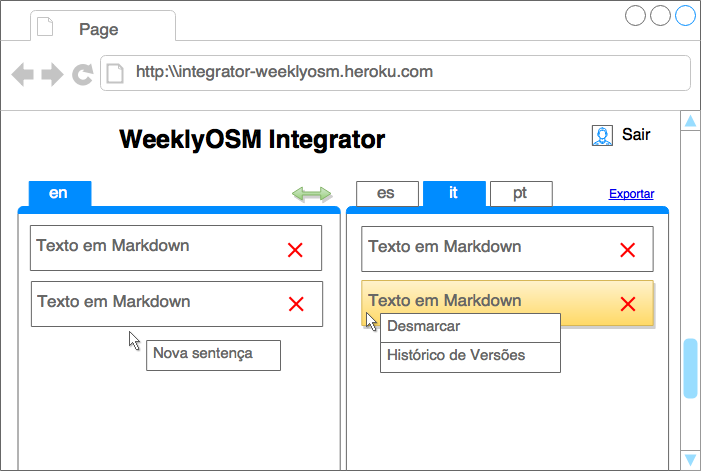
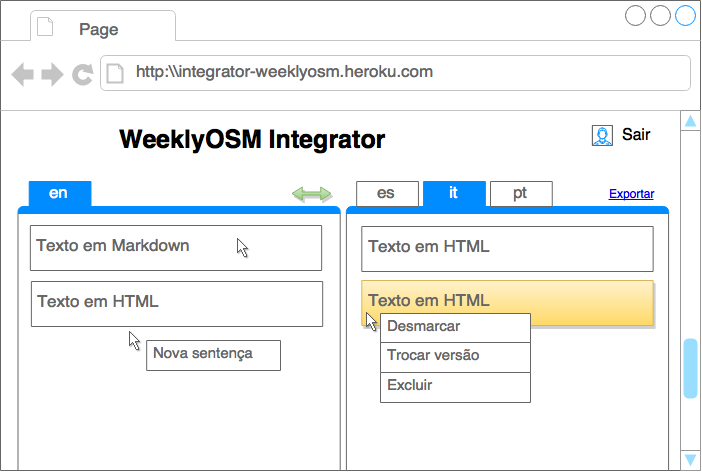
Updates about context menu

diff --git a/design/README.md b/design/README.md
@@ -33,7 +33,7 @@ Detalhamento:
 
 # Web minimalista, um estilo diferente
 
-Para o sistema ser extremamente simples e realmente muito barato, de tela única, não pode se responsabilizar por fluxos de configuração e gerência de dados. A figura de um administrador lida com dois arquivos JSON, um de configurações e outro de dados (renovado a cada semana).
+Para o sistema ser extremamente simples e realmente muito barato, de tela única, não pode se responsabilizar por fluxos de configuração e gerência de dados. A figura de um administrador lida com dois arquivos JSON: um de configurações e outro de dados (que é renovado a cada semana).
 
 ![usecases](usecases.png)
 
